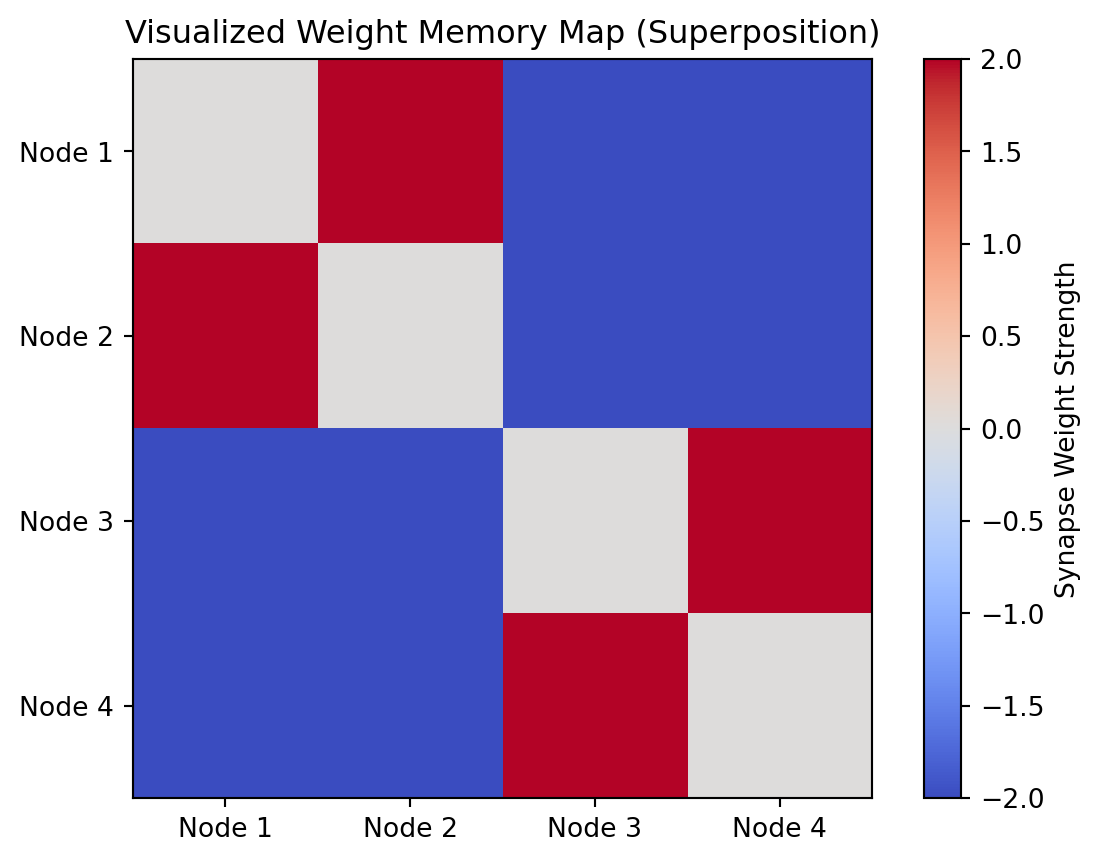
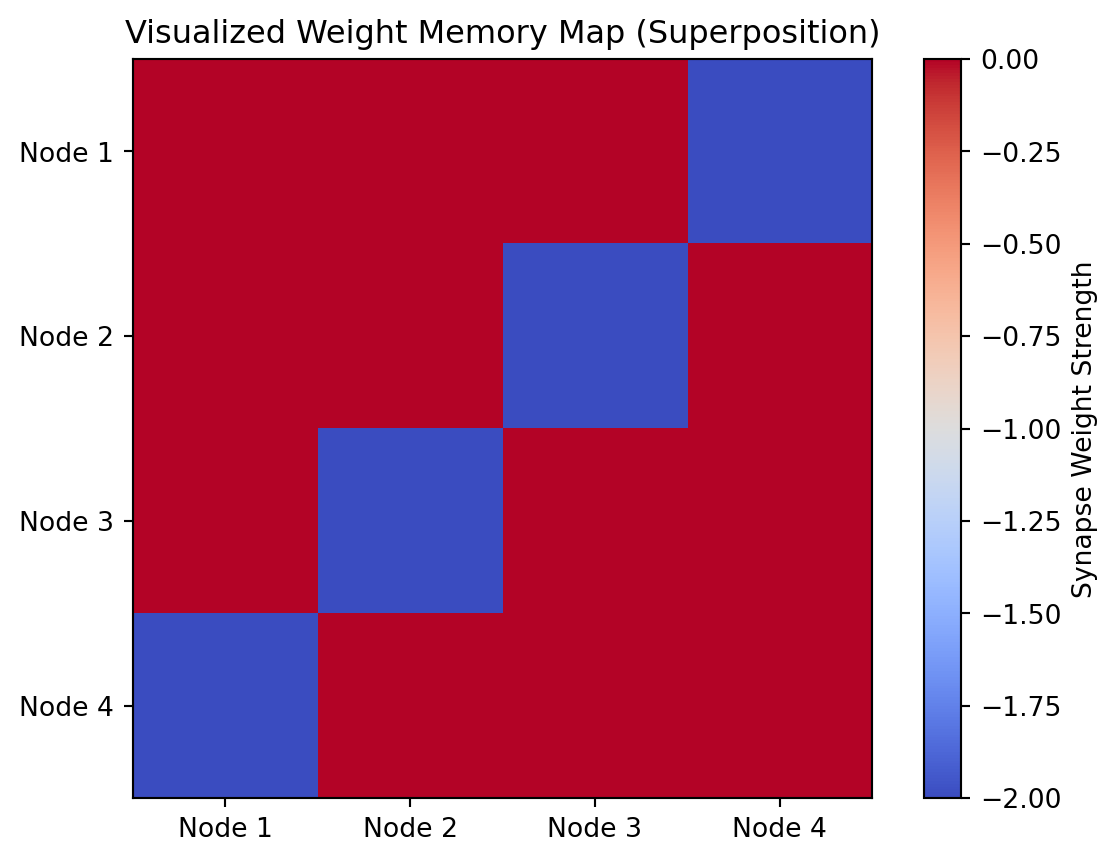
2026년 5주차 <계산주의 인지신경과학> 수업자료.

diff --git a/week5_2026.html b/week5_2026.html
@@ -238,7 +238,7 @@ window.Quarto = {
 <p><strong>[그림 2] 수축과 팽창: 신경망을 구동하는 두 개의 수레바퀴</strong> <img src="images/week5/Slide_002.png" class="img-fluid"></p>
 <section id="실습-1-1-파이썬을-통한-내적과-외적의-연산-및-형태-비교" class="level4">
 <h4 class="anchored" data-anchor-id="실습-1-1-파이썬을-통한-내적과-외적의-연산-및-형태-비교">[실습 1-1] 파이썬을 통한 내적과 외적의 연산 및 형태 비교</h4>
-<div id="0dfc6de5" class="cell" data-execution_count="1">
+<div id="6e7730c6" class="cell" data-execution_count="1">
 <details open="" class="code-fold">
 <summary>Code</summary>
 <div class="code-copy-outer-scaffold"><div class="sourceCode cell-code" id="cb1"><pre class="sourceCode python code-with-copy"><code class="sourceCode python"><span id="cb1-1"><a href="#cb1-1" aria-hidden="true" tabindex="-1"></a><span class="im">import</span> numpy <span class="im">as</span> np <span class="co"># 선형대수 고속 연산을 위한 numpy 라이브러리를 np 약칭으로 임포트함</span></span>
@@ -292,7 +292,7 @@ window.Quarto = {
 <p><strong>[그림 3] 생물학적 각인: 헵 규칙에 의한 파이프라인 팽창</strong> <img src="images/week5/Slide_003.png" class="img-fluid"></p>
 <section id="실습-1-2-단일-시냅스의-헵-규칙-학습-코딩" class="level4">
 <h4 class="anchored" data-anchor-id="실습-1-2-단일-시냅스의-헵-규칙-학습-코딩">[실습 1-2] 단일 시냅스의 헵 규칙 학습 코딩</h4>
-<div id="e0cde059" class="cell" data-execution_count="2">
+<div id="708b5a62" class="cell" data-execution_count="2">
 <details open="" class="code-fold">
 <summary>Code</summary>
 <div class="code-copy-outer-scaffold"><div class="sourceCode cell-code" id="cb3"><pre class="sourceCode python code-with-copy"><code class="sourceCode python"><span id="cb3-1"><a href="#cb3-1" aria-hidden="true" tabindex="-1"></a><span class="co"># 1. 시냅스 초기 상태 및 하이퍼파라미터 세팅</span></span>
@@ -350,7 +350,7 @@ window.Quarto = {
 <p><strong>[그림 4] 차원의 마법: 1억 번의 개별 연산 vs 단숨의 일괄 인쇄</strong> <img src="images/week5/Slide_004.png" class="img-fluid"></p>
 <section id="실습-1-3-외적을-활용한-가중치-행렬-맵-일괄-업데이트" class="level4">
 <h4 class="anchored" data-anchor-id="실습-1-3-외적을-활용한-가중치-행렬-맵-일괄-업데이트">[실습 1-3] 외적을 활용한 가중치 행렬 맵 일괄 업데이트</h4>
-<div id="0e3260ab" class="cell" data-execution_count="3">
+<div id="53b14f00" class="cell" data-execution_count="3">
 <details open="" class="code-fold">
 <summary>Code</summary>
 <div class="code-copy-outer-scaffold"><div class="sourceCode cell-code" id="cb5"><pre class="sourceCode python code-with-copy"><code class="sourceCode python"><span id="cb5-1"><a href="#cb5-1" aria-hidden="true" tabindex="-1"></a><span class="co"># 1. 3개의 입력 뉴런과 3개의 출력 뉴런 세팅(총 9개의 파이프가 얽혀 있음)</span></span>
@@ -400,7 +400,7 @@ window.Quarto = {
 <p><strong>[그림 5] 폭주와 제어: 망각항이 빚어내는 항상성(Oja’s rule)</strong> <img src="images/week5/Slide_005.png" class="img-fluid"></p>
 <section id="실습-1-4-오자-규칙을-통한-시스템-안정화-시뮬레이션" class="level4">
 <h4 class="anchored" data-anchor-id="실습-1-4-오자-규칙을-통한-시스템-안정화-시뮬레이션">[실습 1-4] 오자 규칙을 통한 시스템 안정화 시뮬레이션</h4>
-<div id="53eb7289" class="cell" data-execution_count="4">
+<div id="e8e90570" class="cell" data-execution_count="4">
 <details open="" class="code-fold">
 <summary>Code</summary>
 <div class="code-copy-outer-scaffold"><div class="sourceCode cell-code" id="cb7"><pre class="sourceCode python code-with-copy"><code class="sourceCode python"><span id="cb7-1"><a href="#cb7-1" aria-hidden="true" tabindex="-1"></a><span class="im">import</span> matplotlib.pyplot <span class="im">as</span> plt <span class="co"># 반복 학습에 따른 가중치 변화(팽창/수렴)를 꺾은선 그래프로 그리기 위해 임포트함</span></span>
@@ -501,7 +501,7 @@ window.Quarto = {
 <p><strong>[그림 8] 운명 공동체: 자가 연합 기억과 대각선의 침묵</strong> <img src="images/week5/Slide_008.png" class="img-fluid"></p>
 <section id="실습-2-1-원인-메커니즘-자가-연합기억의-각인저장" class="level4">
 <h4 class="anchored" data-anchor-id="실습-2-1-원인-메커니즘-자가-연합기억의-각인저장">[실습 2-1] 원인 메커니즘: 자가 연합기억의 각인(저장)</h4>
-<div id="9f3cb0af" class="cell" data-execution_count="5">
+<div id="030aed4a" class="cell" data-execution_count="5">
 <details open="" class="code-fold">
 <summary>Code</summary>
 <div class="code-copy-outer-scaffold"><div class="sourceCode cell-code" id="cb8"><pre class="sourceCode python code-with-copy"><code class="sourceCode python"><span id="cb8-1"><a href="#cb8-1" aria-hidden="true" tabindex="-1"></a><span class="co"># 1. 뇌에 각인시킬 완벽한 원본 패턴 A 생성 (사과의 특징 패턴)</span></span>
@@ -544,11 +544,11 @@ window.Quarto = {
 <p><strong>[그림 9] 숫자의 바다: 단 한 장의 도화지에 이뤄지는 중첩</strong> <img src="images/week5/Slide_009.png" class="img-fluid"></p>
 <section id="실습-2-2-두-번째-패턴을-동일한-단일-행렬에-중첩덧셈-저장하기" class="level4">
 <h4 class="anchored" data-anchor-id="실습-2-2-두-번째-패턴을-동일한-단일-행렬에-중첩덧셈-저장하기">[실습 2-2] 두 번째 패턴을 동일한 단일 행렬에 중첩(덧셈) 저장하기</h4>
-<div id="88321251" class="cell" data-execution_count="6">
+<div id="5b0ee6f8" class="cell" data-execution_count="6">
 <details open="" class="code-fold">
 <summary>Code</summary>
 <div class="code-copy-outer-scaffold"><div class="sourceCode cell-code" id="cb10"><pre class="sourceCode python code-with-copy"><code class="sourceCode python"><span id="cb10-1"><a href="#cb10-1" aria-hidden="true" tabindex="-1"></a><span class="co"># 1. 완전히 다른 새로운 패턴 B(바나나) 생성</span></span>
-<span id="cb10-2"><a href="#cb10-2" aria-hidden="true" tabindex="-1"></a>pattern_B <span class="op">=</span> np.array([<span class="op">-</span><span class="dv">1</span>, <span class="op">-</span><span class="dv">1</span>, <span class="dv">1</span>, <span class="dv">1</span>]) <span class="co"># 패턴 A(사과)와 수학적으로 부호가 완전히 반대인 패턴 B(바나나) 배열을 생성함</span></span>
+<span id="cb10-2"><a href="#cb10-2" aria-hidden="true" tabindex="-1"></a>pattern_B <span class="op">=</span> np.array([<span class="dv">1</span>, <span class="op">-</span><span class="dv">1</span>, <span class="dv">1</span>, <span class="op">-</span><span class="dv">1</span>]) <span class="co"># 패턴 A(사과)와 수학적으로 부호가 완전히 반대인 패턴 B(바나나) 배열을 생성함</span></span>
 <span id="cb10-3"><a href="#cb10-3" aria-hidden="true" tabindex="-1"></a></span>
 <span id="cb10-4"><a href="#cb10-4" aria-hidden="true" tabindex="-1"></a><span class="co"># 2. 패턴 B의 외적 행렬 계산 및 대각선 0 처리</span></span>
 <span id="cb10-5"><a href="#cb10-5" aria-hidden="true" tabindex="-1"></a>W_pattern_B <span class="op">=</span> np.outer(pattern_B, pattern_B) <span class="co"># 패턴 B 내부의 노드들끼리 서로 손을 잡게 만드는 바나나 전용 가중치 맵을 외적으로 계산함</span></span>
@@ -563,10 +563,10 @@ window.Quarto = {
 <div class="cell-output cell-output-stdout">
 <pre><code>=== [실습 2-2] 다중 패턴의 중첩(Superposition) 저장 ===
 사과와 바나나 기억이 한 공간에 숫자로 섞여 공존하는 메모리 맵:
-[[ 0.  2. -2. -2.]
- [ 2.  0. -2. -2.]
- [-2. -2.  0.  2.]
- [-2. -2.  2.  0.]]</code></pre>
+[[ 0.  0.  0. -2.]
+ [ 0.  0. -2.  0.]
+ [ 0. -2.  0.  0.]
+ [-2.  0.  0.  0.]]</code></pre>
 </div>
 </div>
 </section>
@@ -575,7 +575,7 @@ window.Quarto = {
 <ul>
 <li>기호주의의 서랍과 달리 연결주의의 기억은 ’수치의 패턴’으로 넓게 분포함. 이 뒤엉킨 숫자의 바다를 히트맵(heatmap) 색상으로 시각화하여 확인해봄.</li>
 </ul>
-<div id="fb4e9ccb" class="cell" data-execution_count="7">
+<div id="3d78e480" class="cell" data-execution_count="7">
 <details open="" class="code-fold">
 <summary>Code</summary>
 <div class="code-copy-outer-scaffold"><div class="sourceCode cell-code" id="cb12"><pre class="sourceCode python code-with-copy"><code class="sourceCode python"><span id="cb12-1"><a href="#cb12-1" aria-hidden="true" tabindex="-1"></a><span class="im">import</span> matplotlib.pyplot <span class="im">as</span> plt <span class="co"># 행렬을 이미지 색상으로 그려주는 시각화 패키지 임포트</span></span>
@@ -590,7 +590,7 @@ window.Quarto = {
 <div class="cell-output cell-output-display">
 <div>
 <figure class="figure">
-<p><img src="week5_2026_files/figure-html/cell-8-output-1.png" width="550" height="431" class="figure-img"></p>
+<p><img src="week5_2026_files/figure-html/cell-8-output-1.png" width="559" height="431" class="figure-img"></p>
 </figure>
 </div>
 </div>
@@ -612,33 +612,38 @@ window.Quarto = {
 <p><strong>[그림 10] 마법의 뜰채: 부호 함수를 통한 기적의 노이즈 복구</strong> <img src="images/week5/Slide_010.png" class="img-fluid"></p>
 <section id="실습-2-4-결과적-현상-손상된-힌트로부터-부호-함수를-거쳐-단번one-shot에-원본-복원" class="level4">
 <h4 class="anchored" data-anchor-id="실습-2-4-결과적-현상-손상된-힌트로부터-부호-함수를-거쳐-단번one-shot에-원본-복원">[실습 2-4] 결과적 현상: 손상된 힌트로부터 부호 함수를 거쳐 단번(one-shot)에 원본 복원</h4>
-<div id="4c130d75" class="cell" data-execution_count="8">
+<div id="b032731b" class="cell" data-execution_count="8">
 <details open="" class="code-fold">
 <summary>Code</summary>
-<div class="code-copy-outer-scaffold"><div class="sourceCode cell-code" id="cb13"><pre class="sourceCode python code-with-copy"><code class="sourceCode python"><span id="cb13-1"><a href="#cb13-1" aria-hidden="true" tabindex="-1"></a><span class="co"># 1. 패턴 A의 일부가 훼손되고 노이즈가 낀 힌트 데이터 입력</span></span>
-<span id="cb13-2"><a href="#cb13-2" aria-hidden="true" tabindex="-1"></a>damaged_hint <span class="op">=</span> np.array([<span class="dv">1</span>, <span class="dv">0</span>, <span class="op">-</span><span class="dv">1</span>, <span class="dv">1</span>]) <span class="co"># 두 번째 정보가 0으로 유실되고, 네 번째에 1이라는 치명적 노이즈가 낀 단서를 생성함</span></span>
+<div class="code-copy-outer-scaffold"><div class="sourceCode cell-code" id="cb13"><pre class="sourceCode python code-with-copy"><code class="sourceCode python"><span id="cb13-1"><a href="#cb13-1" aria-hidden="true" tabindex="-1"></a><span class="co"># 1. 패턴 A의 일부가 훼손된 힌트 데이터 입력</span></span>
+<span id="cb13-2"><a href="#cb13-2" aria-hidden="true" tabindex="-1"></a>damaged_hint <span class="op">=</span> np.array([<span class="dv">1</span>, <span class="dv">0</span>, <span class="op">-</span><span class="dv">1</span>, <span class="dv">0</span>]) <span class="co"># 두 번째와 네 번째 정보가 0으로 유실된 '불완전한 단서'를 생성함</span></span>
 <span id="cb13-3"><a href="#cb13-3" aria-hidden="true" tabindex="-1"></a></span>
-<span id="cb13-4"><a href="#cb13-4" aria-hidden="true" tabindex="-1"></a><span class="bu">print</span>(<span class="st">"=== [실습 2-4] 힌트로부터 전체 기억 복원(패턴 완성) ==="</span>) <span class="co"># 패턴 완성 시연 시작을 알림</span></span>
-<span id="cb13-5"><a href="#cb13-5" aria-hidden="true" tabindex="-1"></a><span class="bu">print</span>(<span class="ss">f"우리가 찾아야 할 완벽한 원본 패턴 A: </span><span class="sc">{</span>pattern_A<span class="sc">}</span><span class="ss">"</span>) <span class="co"># 비교 대조를 위해 목표 정답인 패턴 A 원본을 화면에 띄움</span></span>
-<span id="cb13-6"><a href="#cb13-6" aria-hidden="true" tabindex="-1"></a><span class="bu">print</span>(<span class="ss">f"뇌에 들어온 심하게 손상된 힌트 데이터: </span><span class="sc">{</span>damaged_hint<span class="sc">}</span><span class="ss">"</span>) <span class="co"># 시스템에 입력으로 들어갈 엉망진창인 단서 배열을 띄움</span></span>
+<span id="cb13-4"><a href="#cb13-4" aria-hidden="true" tabindex="-1"></a><span class="bu">print</span>(<span class="st">"=== [실습 2-4] 힌트로부터 전체 기억 복원(패턴 완성) ==="</span>) </span>
+<span id="cb13-5"><a href="#cb13-5" aria-hidden="true" tabindex="-1"></a><span class="bu">print</span>(<span class="ss">f"우리가 찾아야 할 완벽한 원본 패턴 A: </span><span class="sc">{</span>pattern_A<span class="sc">}</span><span class="ss">"</span>) </span>
+<span id="cb13-6"><a href="#cb13-6" aria-hidden="true" tabindex="-1"></a><span class="bu">print</span>(<span class="ss">f"뇌에 들어온 이빨이 빠진 힌트 데이터: </span><span class="sc">{</span>damaged_hint<span class="sc">}</span><span class="ss">"</span>) </span>
 <span id="cb13-7"><a href="#cb13-7" aria-hidden="true" tabindex="-1"></a></span>
 <span id="cb13-8"><a href="#cb13-8" aria-hidden="true" tabindex="-1"></a><span class="co"># 2. 힌트를 아까 깔아둔 가중치 도로망(W_Memory)에 흘려보내 내적 곱셈 연산함</span></span>
-<span id="cb13-9"><a href="#cb13-9" aria-hidden="true" tabindex="-1"></a>retrieved_signal <span class="op">=</span> np.dot(W_Memory, damaged_hint) <span class="co"># 손상된 힌트와 중첩된 가중치 행렬을 내적하여, 힌트가 가중치 파이프라인을 건드리며 자아내는 원시 복구 에너지를 계산함</span></span>
-<span id="cb13-10"><a href="#cb13-10" aria-hidden="true" tabindex="-1"></a><span class="bu">print</span>(<span class="ss">f"가중치 맵을 통과해 도출된 지저분한 원시 시그널: </span><span class="sc">{</span>retrieved_signal<span class="sc">}</span><span class="ss">"</span>) <span class="co"># 내적 결과로 도출된 애매한 실수 값의 덩어리를 출력함</span></span>
+<span id="cb13-9"><a href="#cb13-9" aria-hidden="true" tabindex="-1"></a>retrieved_signal <span class="op">=</span> np.dot(W_Memory, damaged_hint) </span>
+<span id="cb13-10"><a href="#cb13-10" aria-hidden="true" tabindex="-1"></a><span class="bu">print</span>(<span class="ss">f"가중치 맵을 통과해 도출된 원시 시그널: </span><span class="sc">{</span>retrieved_signal<span class="sc">}</span><span class="ss">"</span>) </span>
 <span id="cb13-11"><a href="#cb13-11" aria-hidden="true" tabindex="-1"></a></span>
-<span id="cb13-12"><a href="#cb13-12" aria-hidden="true" tabindex="-1"></a><span class="co"># 3. 부호 함수(np.sign) 필터를 통과시켜 애매한 실수들을 +1과 -1로 극단적으로 밀어붙여 노이즈를 털어냄</span></span>
-<span id="cb13-13"><a href="#cb13-13" aria-hidden="true" tabindex="-1"></a>recovered_pattern <span class="op">=</span> np.sign(retrieved_signal) <span class="co"># 원시 시그널 덩어리를 np.sign 필터에 집어넣어, 0보다 크면 1, 작으면 -1로 멱살을 잡아 깔끔한 디지털 배열로 정제함</span></span>
-<span id="cb13-14"><a href="#cb13-14" aria-hidden="true" tabindex="-1"></a></span>
-<span id="cb13-15"><a href="#cb13-15" aria-hidden="true" tabindex="-1"></a><span class="bu">print</span>(<span class="ss">f"부호 함수 통과 후 최종 완성된 패턴 결과: </span><span class="sc">{</span>recovered_pattern<span class="sc">}</span><span class="ss">"</span>) <span class="co"># 필터링을 거쳐 100% 완벽하게 복구된 배열 결과를 화면에 출력함</span></span>
-<span id="cb13-16"><a href="#cb13-16" aria-hidden="true" tabindex="-1"></a><span class="bu">print</span>(<span class="st">"-&gt; 해설: 엉망진창인 힌트가 들어왔음에도, 튼튼하게 공사된 가중치 도로망과 부호 함수 뜰채의 협업으로 완벽한 패턴 A 원본[1, 1, -1, -1]을 기가 막히게 복구해냄!"</span>)</span></code></pre></div><button title="Copy to Clipboard" class="code-copy-button"><i class="bi"></i></button></div>
+<span id="cb13-12"><a href="#cb13-12" aria-hidden="true" tabindex="-1"></a><span class="co"># 네트워크 연산 결과에 처음에 쥐고 있던 '힌트(잔상)'를 더하여 상호보완함!</span></span>
+<span id="cb13-13"><a href="#cb13-13" aria-hidden="true" tabindex="-1"></a>combined_signal <span class="op">=</span> retrieved_signal <span class="op">+</span> damaged_hint </span>
+<span id="cb13-14"><a href="#cb13-14" aria-hidden="true" tabindex="-1"></a><span class="bu">print</span>(<span class="ss">f"원시 시그널에 원래 힌트를 더한 보완 시그널: </span><span class="sc">{</span>combined_signal<span class="sc">}</span><span class="ss">"</span>)</span>
+<span id="cb13-15"><a href="#cb13-15" aria-hidden="true" tabindex="-1"></a></span>
+<span id="cb13-16"><a href="#cb13-16" aria-hidden="true" tabindex="-1"></a><span class="co"># 3. 부호 함수(np.sign) 필터를 통과시켜 크기가 애매한 실수들을 +1과 -1로 극단적으로 밀어붙임</span></span>
+<span id="cb13-17"><a href="#cb13-17" aria-hidden="true" tabindex="-1"></a>recovered_pattern <span class="op">=</span> np.sign(combined_signal) </span>
+<span id="cb13-18"><a href="#cb13-18" aria-hidden="true" tabindex="-1"></a></span>
+<span id="cb13-19"><a href="#cb13-19" aria-hidden="true" tabindex="-1"></a><span class="bu">print</span>(<span class="ss">f"부호 함수 통과 후 최종 완성된 패턴 결과: </span><span class="sc">{</span>recovered_pattern<span class="sc">}</span><span class="ss">"</span>) </span>
+<span id="cb13-20"><a href="#cb13-20" aria-hidden="true" tabindex="-1"></a><span class="bu">print</span>(<span class="st">"-&gt; 해설: 듬성듬성 끊어진 가중치 도로망 때문에 시그널이 약해졌지만, '원래 쥐고 있던 힌트(잔상)'와 '네트워크의 연상'이 덧셈으로 상호보완되어 완벽한 패턴 A 원본[1, 1, -1, -1]을 복구해냄!"</span>)</span></code></pre></div><button title="Copy to Clipboard" class="code-copy-button"><i class="bi"></i></button></div>
 </details>
 <div class="cell-output cell-output-stdout">
 <pre><code>=== [실습 2-4] 힌트로부터 전체 기억 복원(패턴 완성) ===
 우리가 찾아야 할 완벽한 원본 패턴 A: [ 1  1 -1 -1]
-뇌에 들어온 심하게 손상된 힌트 데이터: [ 1  0 -1  1]
-가중치 맵을 통과해 도출된 지저분한 원시 시그널: [ 0.  2.  0. -4.]
-부호 함수 통과 후 최종 완성된 패턴 결과: [ 0.  1.  0. -1.]
--&gt; 해설: 엉망진창인 힌트가 들어왔음에도, 튼튼하게 공사된 가중치 도로망과 부호 함수 뜰채의 협업으로 완벽한 패턴 A 원본[1, 1, -1, -1]을 기가 막히게 복구해냄!</code></pre>
+뇌에 들어온 이빨이 빠진 힌트 데이터: [ 1  0 -1  0]
+가중치 맵을 통과해 도출된 원시 시그널: [ 0.  2.  0. -2.]
+원시 시그널에 원래 힌트를 더한 보완 시그널: [ 1.  2. -1. -2.]
+부호 함수 통과 후 최종 완성된 패턴 결과: [ 1.  1. -1. -1.]
+-&gt; 해설: 듬성듬성 끊어진 가중치 도로망 때문에 시그널이 약해졌지만, '원래 쥐고 있던 힌트(잔상)'와 '네트워크의 연상'이 덧셈으로 상호보완되어 완벽한 패턴 A 원본[1, 1, -1, -1]을 복구해냄!</code></pre>
 </div>
 </div>
 </section>
@@ -661,36 +666,45 @@ window.Quarto = {
 </ul></li>
 </ul>
 <p><strong>[그림 11] 끌개로의 수렴: 다단계 재귀 연산을 통한 심층 복원</strong> <img src="images/week5/Slide_011.png" class="img-fluid"></p>
-<div id="187ac990" class="cell" data-execution_count="9">
+<div id="86961211" class="cell" data-execution_count="9">
 <details open="" class="code-fold">
 <summary>Code</summary>
-<div class="code-copy-outer-scaffold"><div class="sourceCode cell-code" id="cb15"><pre class="sourceCode python code-with-copy"><code class="sourceCode python"><span id="cb15-1"><a href="#cb15-1" aria-hidden="true" tabindex="-1"></a><span class="co"># 1. 패턴 A에서 무려 3개의 요소가 0으로 망가진 최악의 힌트</span></span>
-<span id="cb15-2"><a href="#cb15-2" aria-hidden="true" tabindex="-1"></a>severe_damage <span class="op">=</span> np.array([<span class="dv">1</span>, <span class="dv">0</span>, <span class="dv">0</span>, <span class="dv">0</span>]) <span class="co"># 1번 노드(빨갛다) 하나만 겨우 살아남고 나머지는 몽땅 0으로 유실된 극단적 망각 단서</span></span>
-<span id="cb15-3"><a href="#cb15-3" aria-hidden="true" tabindex="-1"></a></span>
-<span id="cb15-4"><a href="#cb15-4" aria-hidden="true" tabindex="-1"></a><span class="bu">print</span>(<span class="st">"</span><span class="ch">\n</span><span class="st">=== [실습 2-5] 연쇄 폭발을 통한 점진적 끌개 수렴 ==="</span>) <span class="co"># 다단계 재귀 복원 실습 시작 헤더</span></span>
-<span id="cb15-5"><a href="#cb15-5" aria-hidden="true" tabindex="-1"></a><span class="bu">print</span>(<span class="ss">f"심각하게 손상된 초기 힌트: </span><span class="sc">{</span>severe_damage<span class="sc">}</span><span class="ss">"</span>) <span class="co"># 거의 백지에 가까운 단서를 출력</span></span>
+<div class="code-copy-outer-scaffold"><div class="sourceCode cell-code" id="cb15"><pre class="sourceCode python code-with-copy"><code class="sourceCode python"><span id="cb15-1"><a href="#cb15-1" aria-hidden="true" tabindex="-1"></a><span class="co"># ================================================================================================</span></span>
+<span id="cb15-2"><a href="#cb15-2" aria-hidden="true" tabindex="-1"></a><span class="co"># 다단계 재귀 연산의 순수한 끌개 효과를 확인하기 위해, 여기서는 패턴 A만 각인된 순수 지형도를 사용.</span></span>
+<span id="cb15-3"><a href="#cb15-3" aria-hidden="true" tabindex="-1"></a><span class="co"># ================================================================================================</span></span>
+<span id="cb15-4"><a href="#cb15-4" aria-hidden="true" tabindex="-1"></a>W_A_only <span class="op">=</span> np.outer(pattern_A, pattern_A)</span>
+<span id="cb15-5"><a href="#cb15-5" aria-hidden="true" tabindex="-1"></a>np.fill_diagonal(W_A_only, <span class="dv">0</span>)</span>
 <span id="cb15-6"><a href="#cb15-6" aria-hidden="true" tabindex="-1"></a></span>
-<span id="cb15-7"><a href="#cb15-7" aria-hidden="true" tabindex="-1"></a><span class="co"># 2. 1차 인출 시도</span></span>
-<span id="cb15-8"><a href="#cb15-8" aria-hidden="true" tabindex="-1"></a>signal_step1 <span class="op">=</span> np.dot(W_Memory, severe_damage) <span class="co"># 엉망인 힌트를 기억망과 내적하여 1차 원시 시그널을 얻음</span></span>
-<span id="cb15-9"><a href="#cb15-9" aria-hidden="true" tabindex="-1"></a>recover_step1 <span class="op">=</span> np.sign(signal_step1) <span class="co"># 부호 함수를 거쳐 1차 복구 패턴을 만듦 (단, 0이 나오면 부호가 불분명함)</span></span>
-<span id="cb15-10"><a href="#cb15-10" aria-hidden="true" tabindex="-1"></a><span class="co"># np.sign은 0을 0으로 뱉으므로, 엄격한 이진 패턴 완성을 위해 0인 경우 1로 억지 변환하는 보정 로직 추가</span></span>
-<span id="cb15-11"><a href="#cb15-11" aria-hidden="true" tabindex="-1"></a>recover_step1[recover_step1 <span class="op">==</span> <span class="dv">0</span>] <span class="op">=</span> <span class="dv">1</span> </span>
-<span id="cb15-12"><a href="#cb15-12" aria-hidden="true" tabindex="-1"></a><span class="bu">print</span>(<span class="ss">f"1단계 인출 결과 (아직 불완전): </span><span class="sc">{</span>recover_step1<span class="sc">}</span><span class="ss">"</span>) <span class="co"># 한 번의 시도로는 완벽히 복원되지 않고 일부 값이 애매하게 튀어나온 중간 단계를 보여줌</span></span>
-<span id="cb15-13"><a href="#cb15-13" aria-hidden="true" tabindex="-1"></a></span>
-<span id="cb15-14"><a href="#cb15-14" aria-hidden="true" tabindex="-1"></a><span class="co"># 3. 2차 인출 시도 (재귀 연산)</span></span>
-<span id="cb15-15"><a href="#cb15-15" aria-hidden="true" tabindex="-1"></a><span class="co"># 1단계에서 나온 결과를 '새로운 힌트'로 삼아 다시 가중치 맵에 밀어 넣음</span></span>
-<span id="cb15-16"><a href="#cb15-16" aria-hidden="true" tabindex="-1"></a>signal_step2 <span class="op">=</span> np.dot(W_Memory, recover_step1) <span class="co"># 1차 복구된 패턴을 다시 기억망과 내적하여 2차 원시 시그널을 연쇄 폭발시킴</span></span>
-<span id="cb15-17"><a href="#cb15-17" aria-hidden="true" tabindex="-1"></a>recover_step2 <span class="op">=</span> np.sign(signal_step2) <span class="co"># 2차 시그널을 부호 함수로 정제하여 더욱 명확해진 최종 패턴을 도출함</span></span>
-<span id="cb15-18"><a href="#cb15-18" aria-hidden="true" tabindex="-1"></a><span class="bu">print</span>(<span class="ss">f"2단계 인출 결과 (끌개 도달)  : </span><span class="sc">{</span>recover_step2<span class="sc">}</span><span class="ss">"</span>) <span class="co"># 두 번의 사이클을 거쳐 마침내 원본 패턴 A와 100% 동일하게 웅덩이 바닥(끌개)으로 수렴한 완벽한 결과를 출력함</span></span>
-<span id="cb15-19"><a href="#cb15-19" aria-hidden="true" tabindex="-1"></a><span class="bu">print</span>(<span class="st">"-&gt; 해설: 뇌는 떠오를 듯 말 듯 한 기억 조각(1차 인출)을 다시 단서로 삼아 생각을 거듭(2차 인출)하며, 결국 가장 안정적인 원본 기억(Attractor)의 형태로 블랙홀처럼 빨려 들어감."</span>) </span></code></pre></div><button title="Copy to Clipboard" class="code-copy-button"><i class="bi"></i></button></div>
+<span id="cb15-7"><a href="#cb15-7" aria-hidden="true" tabindex="-1"></a><span class="co"># 1. 패턴 A에서 무려 3개의 요소가 0으로 망가진 최악의 힌트</span></span>
+<span id="cb15-8"><a href="#cb15-8" aria-hidden="true" tabindex="-1"></a>severe_damage <span class="op">=</span> np.array([<span class="dv">1</span>, <span class="dv">0</span>, <span class="dv">0</span>, <span class="dv">0</span>]) <span class="co"># 1번 노드(빨갛다) 하나만 겨우 살아남은 극단적 단서</span></span>
+<span id="cb15-9"><a href="#cb15-9" aria-hidden="true" tabindex="-1"></a></span>
+<span id="cb15-10"><a href="#cb15-10" aria-hidden="true" tabindex="-1"></a><span class="bu">print</span>(<span class="st">"</span><span class="ch">\n</span><span class="st">=== [실습 2-5] 연쇄 폭발을 통한 점진적 끌개 수렴 ==="</span>)</span>
+<span id="cb15-11"><a href="#cb15-11" aria-hidden="true" tabindex="-1"></a><span class="bu">print</span>(<span class="ss">f"심각하게 손상된 초기 힌트: </span><span class="sc">{</span>severe_damage<span class="sc">}</span><span class="ss">"</span>)</span>
+<span id="cb15-12"><a href="#cb15-12" aria-hidden="true" tabindex="-1"></a></span>
+<span id="cb15-13"><a href="#cb15-13" aria-hidden="true" tabindex="-1"></a><span class="co"># 2. 1차 인출 시도</span></span>
+<span id="cb15-14"><a href="#cb15-14" aria-hidden="true" tabindex="-1"></a>signal_step1 <span class="op">=</span> np.dot(W_A_only, severe_damage) <span class="co"># 순수 기억망과 내적 연산</span></span>
+<span id="cb15-15"><a href="#cb15-15" aria-hidden="true" tabindex="-1"></a>recover_step1 <span class="op">=</span> np.sign(signal_step1) <span class="co"># 부호 함수를 거쳐 1차 복구 패턴 생성</span></span>
+<span id="cb15-16"><a href="#cb15-16" aria-hidden="true" tabindex="-1"></a></span>
+<span id="cb15-17"><a href="#cb15-17" aria-hidden="true" tabindex="-1"></a><span class="bu">print</span>(<span class="ss">f"1단계 인출 결과 (아직 불완전): </span><span class="sc">{</span>recover_step1<span class="sc">}</span><span class="ss">"</span>) </span>
+<span id="cb15-18"><a href="#cb15-18" aria-hidden="true" tabindex="-1"></a><span class="co"># 결과: [ 0.  1. -1. -1.] -&gt; 모양과 맛(2, 3, 4번)은 떠올랐으나, 정작 색깔(1번)의 신호 에너지가 0으로 떨어지며 까먹어버린 불완전한 혀끝 현상 발생!</span></span>
+<span id="cb15-19"><a href="#cb15-19" aria-hidden="true" tabindex="-1"></a></span>
+<span id="cb15-20"><a href="#cb15-20" aria-hidden="true" tabindex="-1"></a><span class="co"># 3. 2차 인출 시도 (재귀 연산)</span></span>
+<span id="cb15-21"><a href="#cb15-21" aria-hidden="true" tabindex="-1"></a><span class="co"># 1단계에서 나온 '불완전한 결과'를 버리지 않고 새로운 힌트로 삼아 다시 밀어 넣음</span></span>
+<span id="cb15-22"><a href="#cb15-22" aria-hidden="true" tabindex="-1"></a>signal_step2 <span class="op">=</span> np.dot(W_A_only, recover_step1) </span>
+<span id="cb15-23"><a href="#cb15-23" aria-hidden="true" tabindex="-1"></a>recover_step2 <span class="op">=</span> np.sign(signal_step2) </span>
+<span id="cb15-24"><a href="#cb15-24" aria-hidden="true" tabindex="-1"></a></span>
+<span id="cb15-25"><a href="#cb15-25" aria-hidden="true" tabindex="-1"></a><span class="bu">print</span>(<span class="ss">f"2단계 인출 결과 (끌개 도달)  : </span><span class="sc">{</span>recover_step2<span class="sc">}</span><span class="ss">"</span>) </span>
+<span id="cb15-26"><a href="#cb15-26" aria-hidden="true" tabindex="-1"></a><span class="co"># 결과: [ 1.  1. -1. -1.] -&gt; 살아남은 뉴런들이 힘을 합쳐 까먹고 있던 1번 뉴런에 강력한 자극(+3)을 주어 원본을 100% 살려냄!</span></span>
+<span id="cb15-27"><a href="#cb15-27" aria-hidden="true" tabindex="-1"></a></span>
+<span id="cb15-28"><a href="#cb15-28" aria-hidden="true" tabindex="-1"></a><span class="bu">print</span>(<span class="st">"-&gt; 해설: 뇌는 떠오를 듯 말 듯 한 반쪽짜리 기억 조각(1차 인출)을 다시 단서로 삼아 생각을 거듭(2차 인출)하며, 결국 가장 안정적인 원본 기억(attractor)의 밑바닥으로 데굴데굴 굴러떨어져 완벽히 수렴하게 됨"</span>)</span></code></pre></div><button title="Copy to Clipboard" class="code-copy-button"><i class="bi"></i></button></div>
 </details>
 <div class="cell-output cell-output-stdout">
 <pre><code>
 === [실습 2-5] 연쇄 폭발을 통한 점진적 끌개 수렴 ===
 심각하게 손상된 초기 힌트: [1 0 0 0]
-1단계 인출 결과 (아직 불완전): [ 1.  1. -1. -1.]
-2단계 인출 결과 (끌개 도달)  : [ 1.  1. -1. -1.]
--&gt; 해설: 뇌는 떠오를 듯 말 듯 한 기억 조각(1차 인출)을 다시 단서로 삼아 생각을 거듭(2차 인출)하며, 결국 가장 안정적인 원본 기억(Attractor)의 형태로 블랙홀처럼 빨려 들어감.</code></pre>
+1단계 인출 결과 (아직 불완전): [ 0  1 -1 -1]
+2단계 인출 결과 (끌개 도달)  : [ 1  1 -1 -1]
+-&gt; 해설: 뇌는 떠오를 듯 말 듯 한 반쪽짜리 기억 조각(1차 인출)을 다시 단서로 삼아 생각을 거듭(2차 인출)하며, 결국 가장 안정적인 원본 기억(attractor)의 밑바닥으로 데굴데굴 굴러떨어져 완벽히 수렴하게 됨</code></pre>
 </div>
 </div>
 </section>
@@ -716,7 +730,7 @@ window.Quarto = {
 <ul>
 <li>실제로 앞서 성공적으로 중첩 저장되었던 패턴 A와 B가 직교하는지 파이썬 코드로 검증해보기.</li>
 </ul>
-<div id="0be43394" class="cell" data-execution_count="10">
+<div id="7d0de5f8" class="cell" data-execution_count="10">
 <details open="" class="code-fold">
 <summary>Code</summary>
 <div class="code-copy-outer-scaffold"><div class="sourceCode cell-code" id="cb17"><pre class="sourceCode python code-with-copy"><code class="sourceCode python"><span id="cb17-1"><a href="#cb17-1" aria-hidden="true" tabindex="-1"></a><span class="bu">print</span>(<span class="st">"</span><span class="ch">\n</span><span class="st">=== [실습 2-6] 패턴 간의 직교성 수학적 검증 ==="</span>) <span class="co"># 직교성 검증 실습 헤더 출력</span></span>
@@ -733,8 +747,8 @@ window.Quarto = {
 <pre><code>
 === [실습 2-6] 패턴 간의 직교성 수학적 검증 ===
 패턴 A (사과)  : [ 1  1 -1 -1]
-패턴 B (바나나): [-1 -1  1  1]
-패턴 A와 B의 내적(Dot Product) 결과: -4
+패턴 B (바나나): [ 1 -1  1 -1]
+패턴 A와 B의 내적(Dot Product) 결과: 0
 -&gt; 해설: 내적이 0이 나왔다는 것은 두 데이터가 기하학적으로 90도 직각(직교)을 이루며, 서로의 기억 영역을 1%도 침범하지 않는 완벽히 독립된 지식임을 뜻함. 이 덕분에 도화지 한 장에 겹쳐 그려도 섞이지 않은 것임.</code></pre>
 </div>
 </div>
@@ -840,7 +854,7 @@ window.Quarto = {
 <ul>
 <li>왜 파국적 간섭이 일어나는지, 부호 함수를 거치기 전의 <strong>원시 시그널 수치</strong>를 직접 뜯어보며 오염된 가중치의 횡포를 확인하기.</li>
 </ul>
-<div id="76705406" class="cell" data-execution_count="11">
+<div id="fa49b6cb" class="cell" data-execution_count="11">
 <details open="" class="code-fold">
 <summary>Code</summary>
 <div class="code-copy-outer-scaffold"><div class="sourceCode cell-code" id="cb19"><pre class="sourceCode python code-with-copy"><code class="sourceCode python"><span id="cb19-1"><a href="#cb19-1" aria-hidden="true" tabindex="-1"></a><span class="co"># 1. 기존 패턴 A([1, 1, -1, -1])와 극도로 유사하게 생긴 패턴 C(토마토) 생성</span></span>
@@ -873,10 +887,10 @@ window.Quarto = {
 <pre><code>
 === [실습 2-7] 의도된 실패: 파국적 간섭 테스트 ===
 패턴 A와 C의 내적값: 2 (직교하지 않고 크게 겹침. 도화지에 잉크가 뭉쳐 간섭 폭발 예정!)
-오염된 맵을 통과해 나온 원시 시그널: [ 7.  7. -3. -7.]
+오염된 맵을 통과해 나온 원시 시그널: [ 3.  3.  1. -3.]
 
 입력한 완벽한 사과 힌트: [ 1  1 -1 -1]
-네트워크가 뱉어낸 오답 결과: [ 1.  1. -1. -1.]
+네트워크가 뱉어낸 오답 결과: [ 1.  1.  1. -1.]
 -&gt; 최종 결론: 손상되지 않은 완벽한 사과 힌트를 줬음에도 불구하고, 가중치 도화지가 토마토와 떡져버린(파국적 간섭) 탓에 세 번째 원소가 +1로 심각하게 오염된 엉뚱한 프랑켄슈타인 기억을 뱉어냄(패턴 완성의 처참한 붕괴). 이 치명적인 '맹목적 덧셈' 에러를 박살내고 가중치를 정교하게 깎아내기 위해 6주차의 '오차 기반 학습법(역전파)'이 등장함!</code></pre>
 </div>
 </div>
